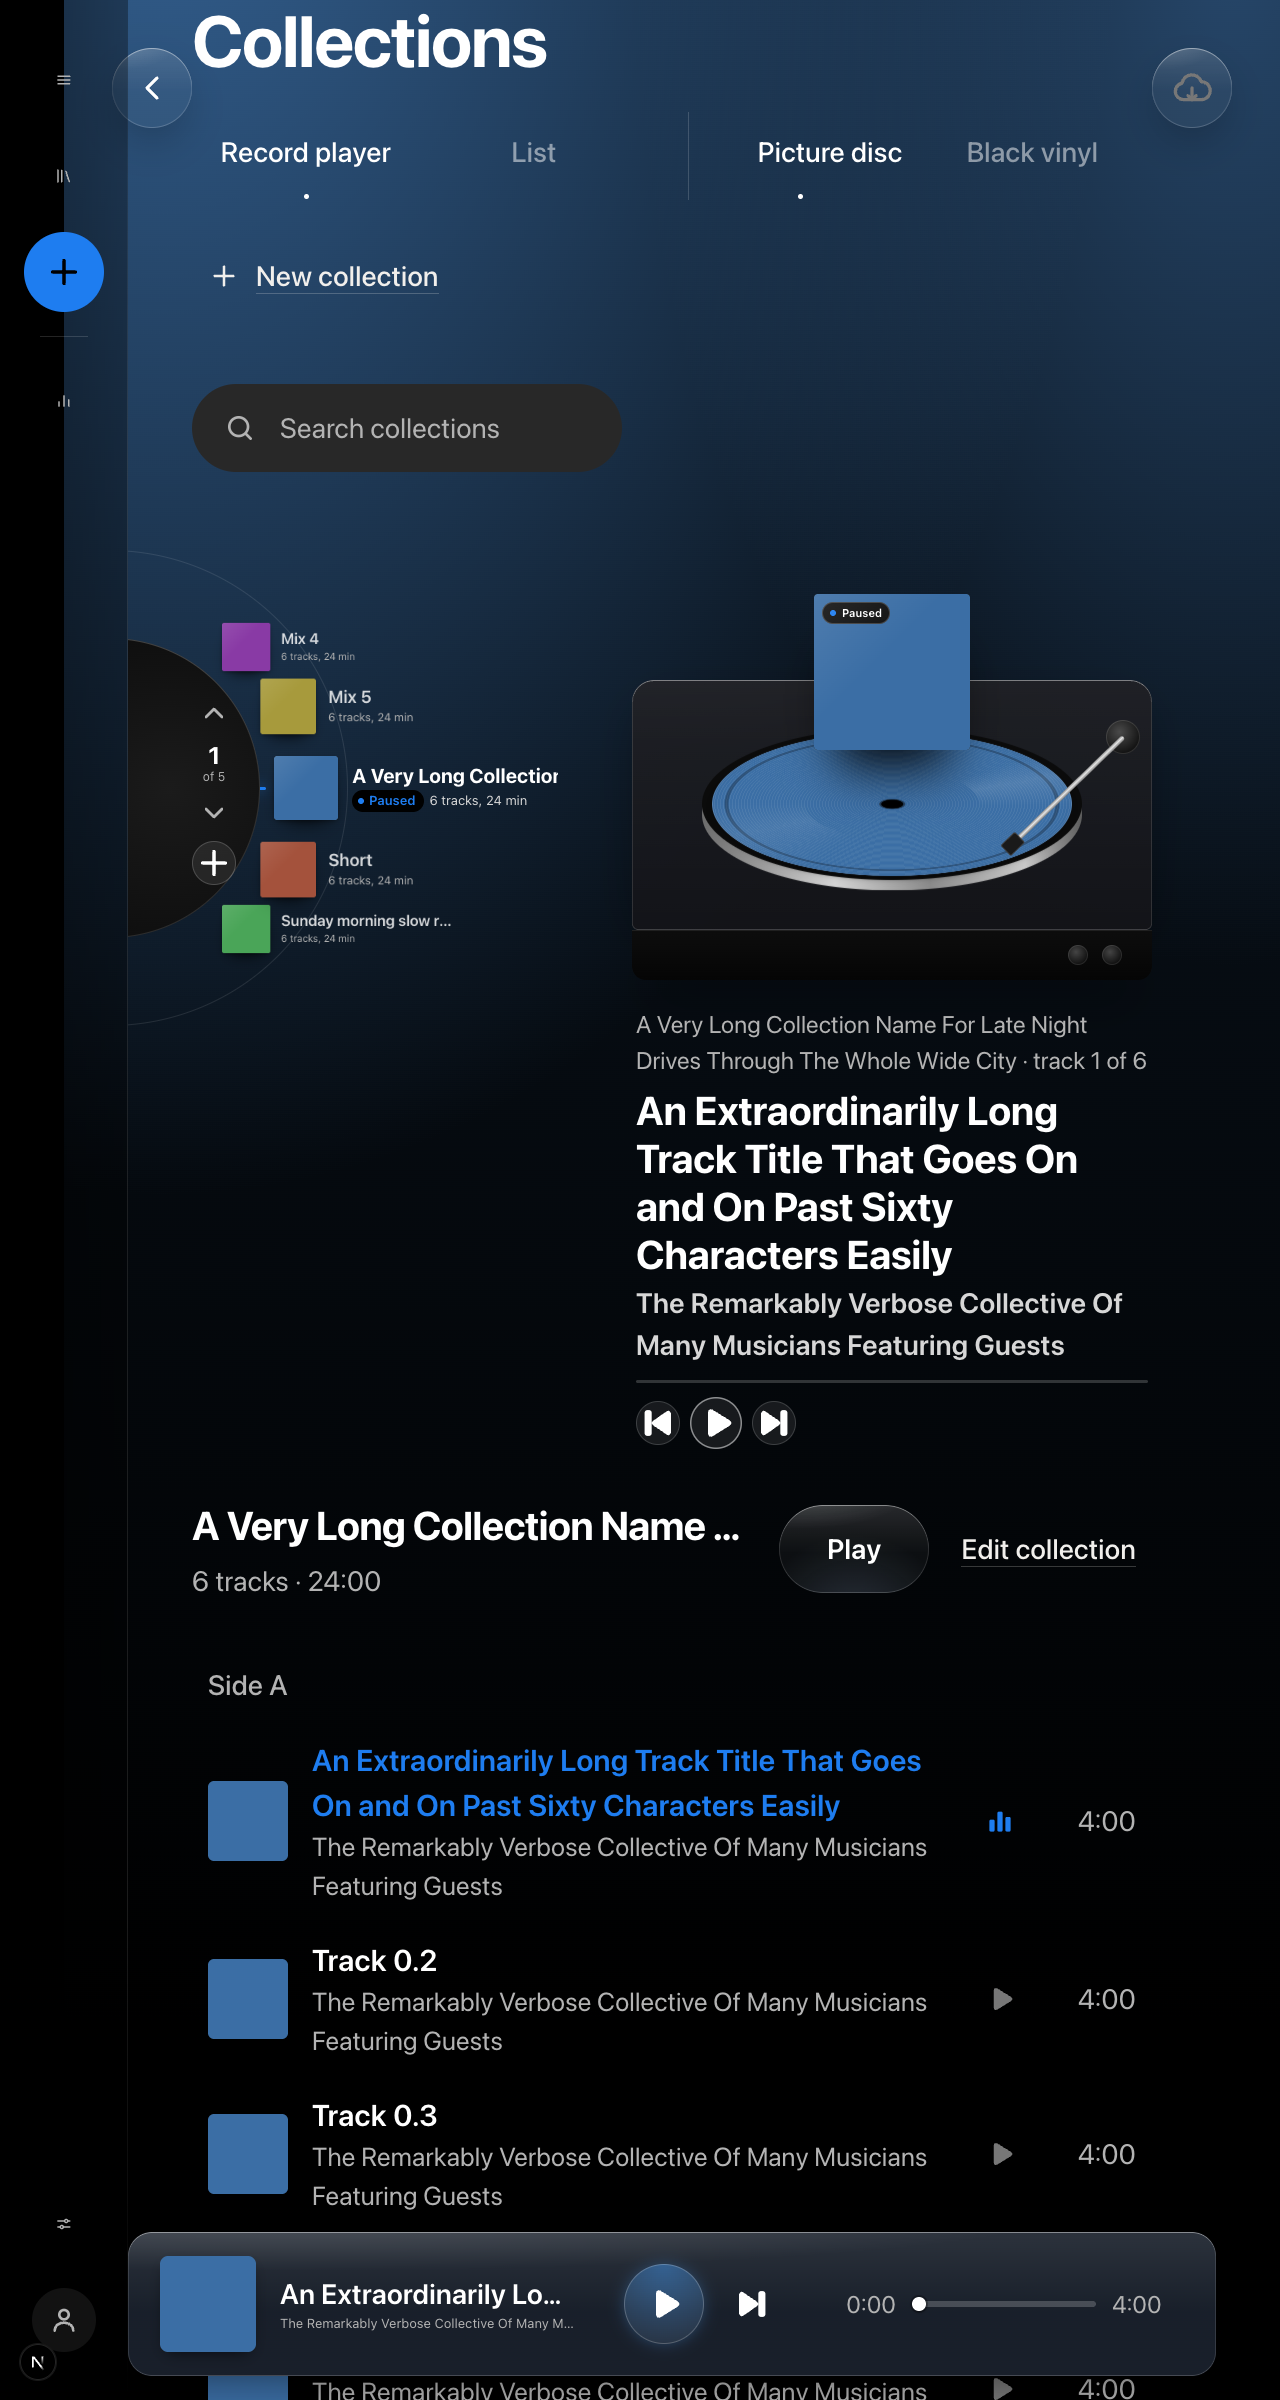
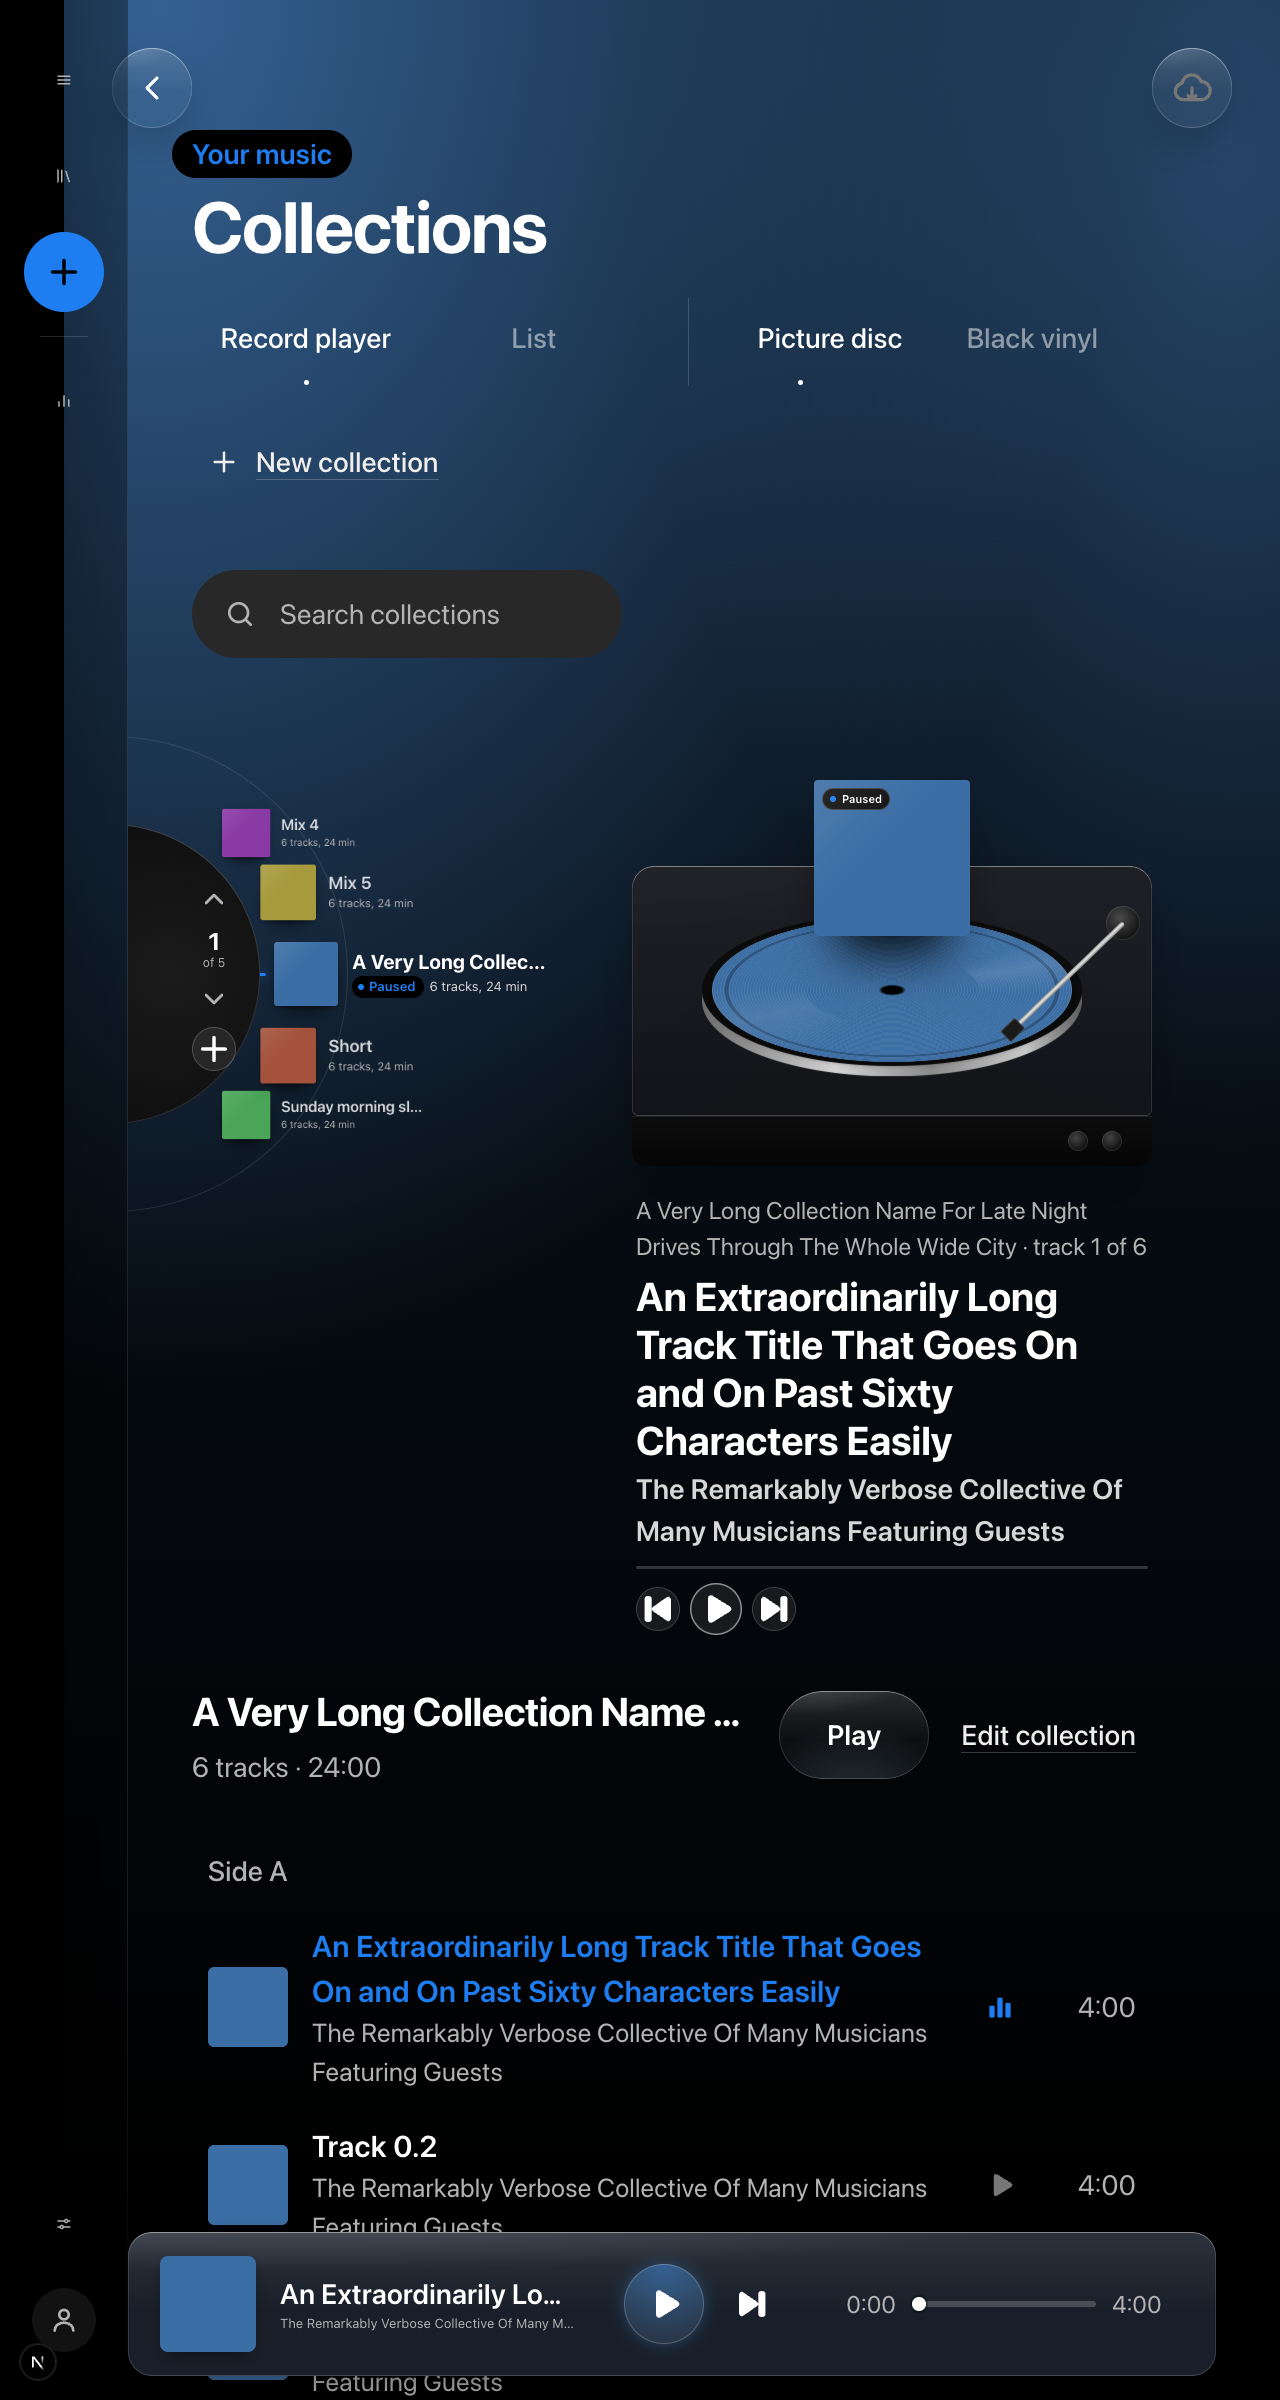
Record player: the front row's name ends in an ellipsis inside the wheel, the switches fit at 320 px (#351)

diff --git a/apps/web/src/components/CollectionsView.tsx b/apps/web/src/components/CollectionsView.tsx
@@ -71,10 +71,12 @@ export default function CollectionsView({ releases, selectedId, onSelect, onAddT
 
   return (
     <div className="flex flex-col gap-6 pb-16">
-      <div className="flex flex-wrap items-end justify-between gap-4 pr-[calc(var(--tray-size)+0.75rem)] lg:pr-0">
-        <div>
-          <p className="-ml-2.5 inline-block rounded-full bg-bg px-2.5 py-0.5 text-sm font-semibold text-accent">Your music</p>
-          <h1 className="mt-1 text-4xl font-bold tracking-[-0.02em] text-text">Collections</h1>
+      <div className="flex flex-wrap items-end justify-between gap-4">
+        <div className="min-w-0 max-w-full">
+          <div className="pr-[calc(var(--tray-size)+0.75rem)] lg:pr-0">
+            <p className="-ml-2.5 inline-block rounded-full bg-bg px-2.5 py-0.5 text-sm font-semibold text-accent">Your music</p>
+            <h1 className="mt-1 text-4xl font-bold tracking-[-0.02em] text-text">Collections</h1>
+          </div>
           {loaded && collections.length > 0 && (
             <div className="rp-switches mt-4 flex flex-wrap items-center gap-x-5 gap-y-1 text-sm text-text-muted">
               <Switch

diff --git a/apps/web/src/app/globals.css b/apps/web/src/app/globals.css
@@ -2866,6 +2866,24 @@ body {
   border-left: 1px solid rgb(255 255 255 / 0.16);
   border-radius: 0;
 }
+/* Narrow: the groups wrap, so the second one drops its divider and padding, and each group stays inside the pane:
+   its two options share the width and a long label wraps in two lines rather than run off the edge. */
+@media (max-width: 639px) {
+  .rp-switches .btn-seg {
+    max-width: 100%;
+    grid-template-columns: repeat(2, minmax(0, 1fr));
+  }
+  .rp-switches .btn-seg-opt {
+    padding-inline: 0.5rem;
+    white-space: normal;
+    text-align: center;
+    line-height: 1.15;
+  }
+  .rp-switches .btn-seg + .btn-seg {
+    padding-left: 0;
+    border-left: 0;
+  }
+}
 .rp-grid {
   container-type: inline-size;
   margin-top: 0.5rem;
@@ -3092,7 +3110,8 @@ body {
 }
 .rp-text b {
   display: block;
-  max-width: 230px;
+  /* The front row is the right-most: its text starts about 224 px into the 430 px wheel, so 196 px ends inside it. */
+  max-width: 196px;
   overflow: hidden;
   text-overflow: ellipsis;
   white-space: nowrap;

diff --git a/docs/design.md b/docs/design.md
@@ -903,6 +903,7 @@ Previews: `docs/design-previews/339-mac/` (1280 and 900 wide: `playing`, plus `n
 - **The deck.** The app's fake glass (`.glass-fake`, no backdrop-filter) with the platter as a circle flattened by `scaleY(0.4)`, a tonearm, two knobs. The front collection's cover hovers over the record: its sleeve (1 to 4 covers) with a 44 px **Play {name}** while browsing, or the current track's cover with a Playing / Paused tag when it is the playing collection. Now playing is on the right of the deck from 820 px of deck width, under it below that; "Back to {name}" shows while browsing. The record is a picture disc (the current track's cover edge to edge, grooves over it, a small hole) or black vinyl with the cover as the label, one element switched by `data-picture`. Previous, Play / Pause and Next are 44 px (the main one 52). Nothing is on the platter: a bare black record, still, the arm at rest, "Nothing playing", the buttons dimmed (`aria-disabled`).
 - **Narrow.** The deck's decorative parts (deck, platter, record, hovering cover, tonearm) sit in one `.rp-stage` drawn 520 px wide and scaled by a transform from the deck's width (`--s`, `clamp(0.35, tan(atan2(100cqw, 520px)), 1)`, 1 from 520 px up), so nothing overflows at 320 px; the Play button on the cover counter-scales so it stays 44 px high, and now playing stays outside the stage at full size. Checked at 320 px wide and with the root font size at 200%: no horizontal page scroll in either.
 - **Narrow caption.** Below 430 px of page width (the wheel is then narrower than its 430 px and its rows would clip names at the edge; a container query on `.rp-grid`) the wheel rows show art only (`.rp-text` is `display: none`; each option keeps its `aria-label`) and the selected collection's full name (wraps, 1.25rem, 700) and "6 tracks, 24 min" show under the wheel (`.rp-cap`, `SelectedCaption`). It follows the selection, is real text (not `aria-hidden`: it is not the option's exact label, which adds the player's state) and is `display: none` from 430 px up, where nothing changes.
+- **Row names and narrow switches.** A wheel row's name is capped at 196 px (`.rp-text b`), so the front row, the right-most one, always ends in an ellipsis inside the 430 px wheel instead of being cut mid-letter; wheel text stays px. Under 640 px of window width the two switches drop the divider and the second group's padding, each group stays inside the pane (a long option label wraps in two lines), and only the eyebrow and heading keep clear of the cloud button.
 - **Text size.** The wheel's art and row captions keep fixed pixel sizes (they stop growing, like the Library cloud's badge). Now playing (eyebrow 0.75rem, title 1.25rem, artist 0.875rem, wrapping with `overflow-wrap: anywhere`) and the queue (title 0.9375rem, artist 0.8125rem, two lines then an ellipsis with the full text in `title`; the time column is a minimum width) are in rem and scale with the root font size. Now playing is in the deck's flow (not absolutely placed), so the space under the deck follows its content and the queue moves down. The queue's two sides stack when a column would be under 20rem. Checked with 60+ character titles at a root font size of 200% (`large-text-1280.png`): nothing overlaps, no mid-word breaks.
 - **Layout.** The page is container-queried: two columns (wheel, deck) from 900 px of page width, one column below; the deck puts now playing under it below 820 px of its own width. The queue (Side A and Side B side by side, the page's existing rows) and the "Make it a playlist" guide sit under the deck; Edit collection works there as in List.
 - **Colour.** The page takes the front record's first cover's colours as the release page does (`useArtworkPalette`, `AmbientBackdrop`).
